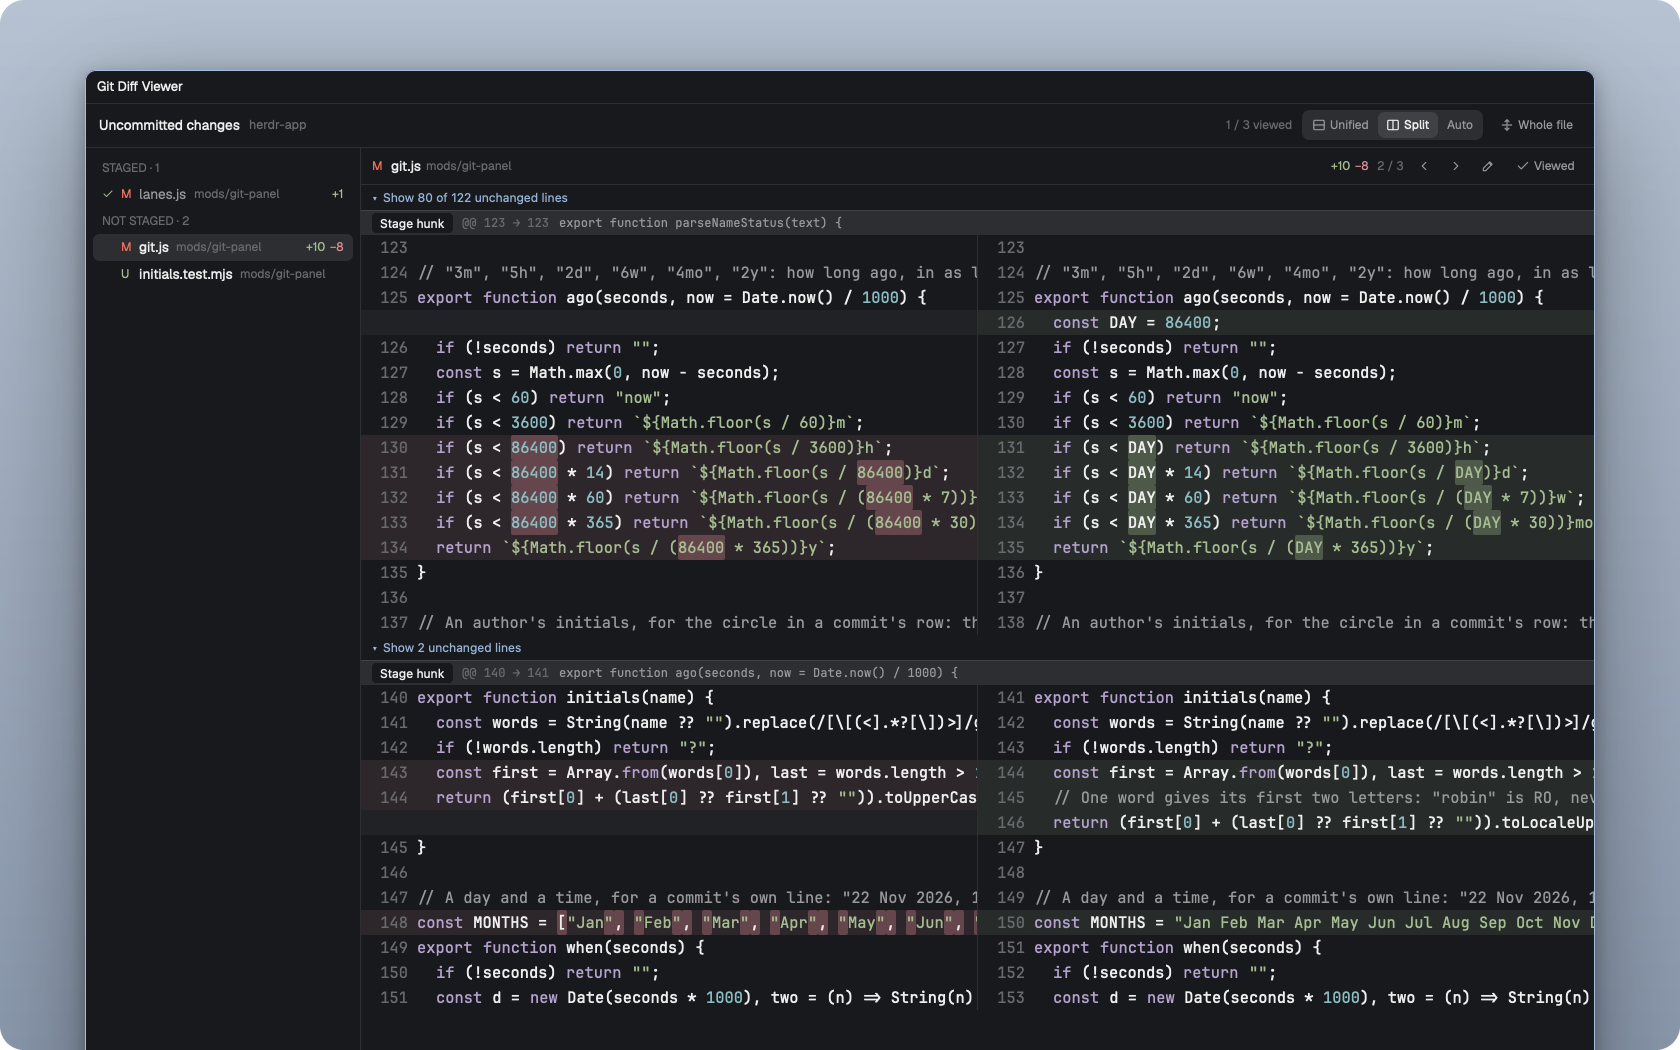
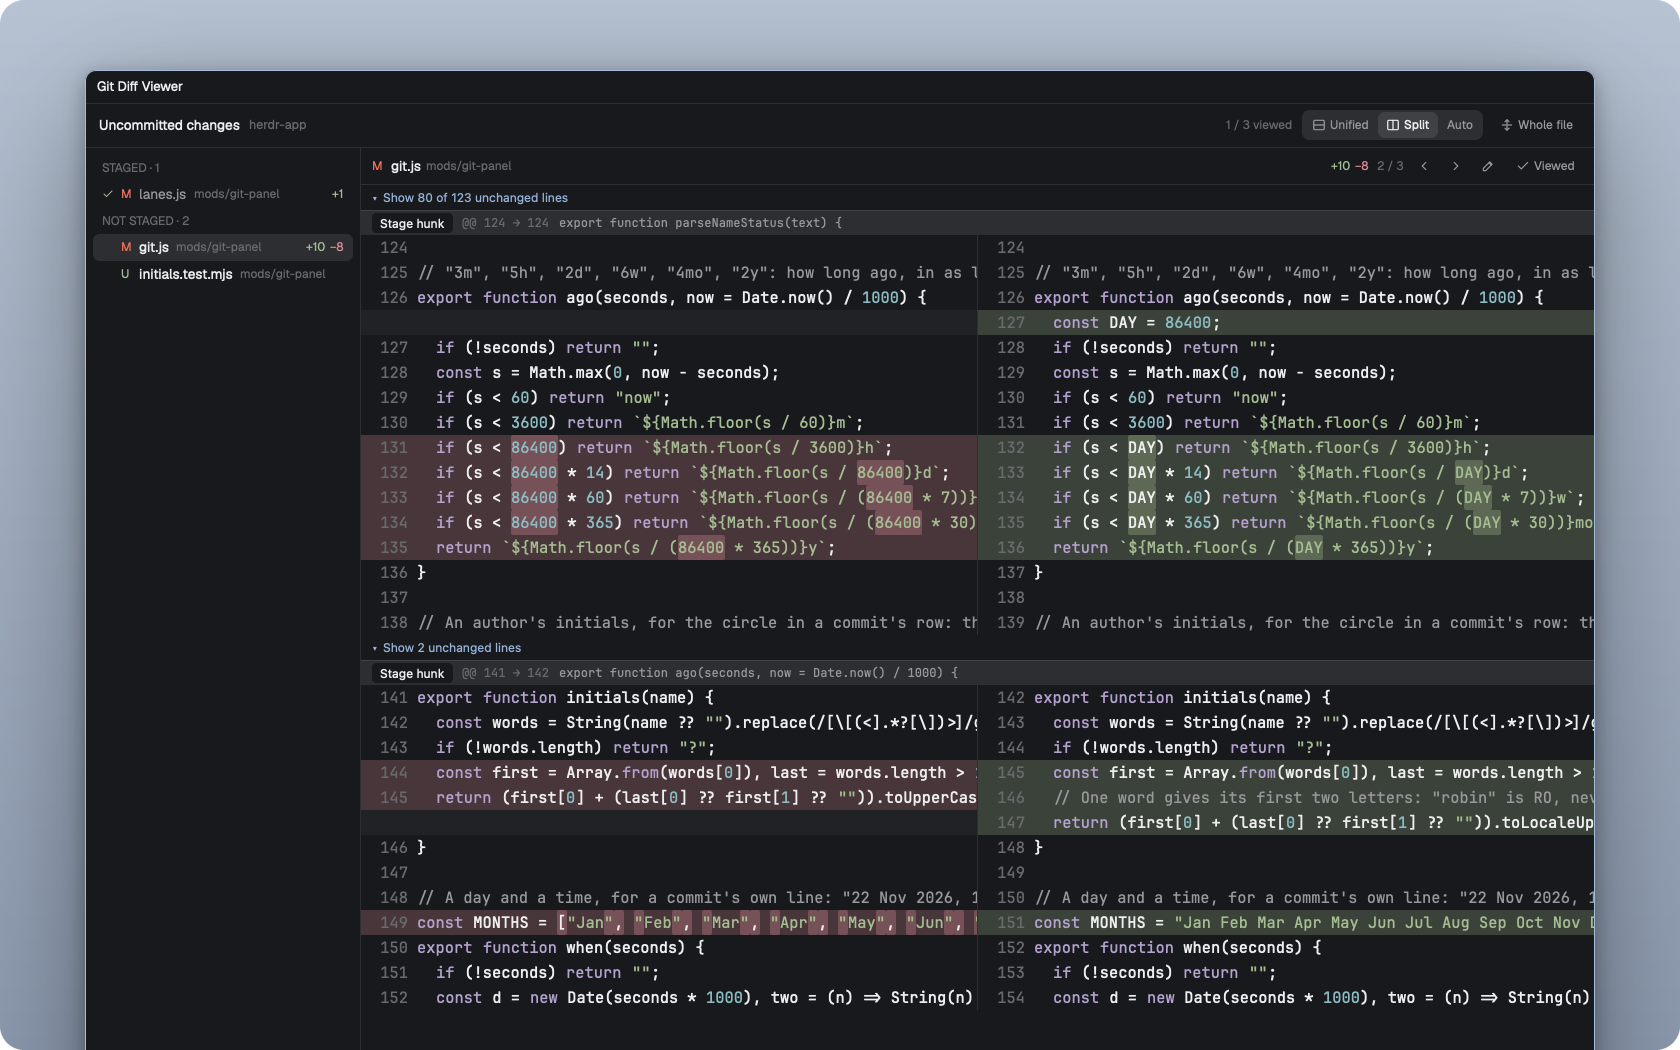
fix(git-diff): increase changed-line contrast

diff --git a/mods/git-diff/main.js b/mods/git-diff/main.js
@@ -776,7 +776,7 @@ export default class GitDiff extends View {
       .child(div().flex_1().min_w(0).truncate().text_color(t.muted).child(hard(row.note || "")));
   }
 
-  tint(kind, t) { return kind === "+" ? t.ansi2 + "1c" : kind === "-" ? t.ansi1 + "1c" : null; }
+  tint(kind, t) { return kind === "+" ? t.ansi2 + "40" : kind === "-" ? t.ansi1 + "40" : null; }
 
   number(n, t) {
     return div().w(NUMBER).flex_none().pr(8).text_right().text_color(t.dim).child(n === undefined || n === null ? "" : String(n));

diff --git a/packages/git-diff/mods/git-diff/main.js b/packages/git-diff/mods/git-diff/main.js
@@ -776,7 +776,7 @@ export default class GitDiff extends View {
       .child(div().flex_1().min_w(0).truncate().text_color(t.muted).child(hard(row.note || "")));
   }
 
-  tint(kind, t) { return kind === "+" ? t.ansi2 + "1c" : kind === "-" ? t.ansi1 + "1c" : null; }
+  tint(kind, t) { return kind === "+" ? t.ansi2 + "40" : kind === "-" ? t.ansi1 + "40" : null; }
 
   number(n, t) {
     return div().w(NUMBER).flex_none().pr(8).text_right().text_color(t.dim).child(n === undefined || n === null ? "" : String(n));

diff --git a/docs/git-diff.md b/docs/git-diff.md
@@ -7,7 +7,7 @@ A pane beside the terminals for reading a change, opened by clicking a file in t
 *An uncommitted change side by side, with the changed words marked and one file ticked as viewed. The names in the pictures are made up.*
 
 - **Unified and Split.** Use the header or press `S` to switch. Auto uses Split when both columns fit and Unified for new or deleted files. Unified shows both line numbers and scrolls horizontally.
-- **Code and word highlights.** Syntax colors identify keywords, strings, comments and numbers in common code formats. The exact words changed still get their own background.
+- **Code and word highlights.** Added lines have a green background and removed lines have a red one. The exact words changed get a stronger tint. Syntax colors identify keywords, strings, comments and numbers in common code formats.
 - **Hunks and context.** Each hunk shows its starting line numbers and function name when Git provides one. Click a gap to show its unchanged lines in groups of up to 80. Click **Hide** to collapse that gap. Press `W` or click **Whole file** to see the whole diff with context.
 - **Files.** The list shows additions and deletions per file and groups uncommitted changes into staged and unstaged. Click the filename in a narrow pane or press `F` to search the changed files. `J` and `K`, the arrows, and the mouse's forward and back buttons move between files.
 - **Stage or unstage a hunk.** In the uncommitted changes view, click **Stage hunk** or **Unstage hunk** in its header. Git updates the index and keeps your working file as it is. Return to the changes view to stage individual hunks after looking at the whole file. Use the Git panel to stage an untracked or binary file.

diff --git a/docs/agents/git-diff.md b/docs/agents/git-diff.md
@@ -29,6 +29,7 @@ The diff pane, beside the terminals. It is not a clone. One a tab (props `{ tab 
 - `tick()` reads nothing while Herdr is not the active app (`away`); the first active tick marks the lists stale. It starts no reading sooner than four times as long as the last one took (`cost`, measured from `listedAt` in `lists()`). Neither applies to `take()`: a request from the Git panel, or the restore at start, reads at once.
 - A tick is kept with a number made from the added and removed lines only (`diff.changes()`), not from the whole diff: that one changes with the lines shown around a change, and the whole-file view would take every tick away.
 - Word and syntax spans are computed before drawing. `WORDS` bounds word comparisons and `COLOR_CHARS` bounds syntax scans. A long line, unknown file type or exhausted budget falls back to the available highlights. Syntax scanning uses the displayed line and carries no state across omitted lines.
+- Unified and Split use the same theme-derived green and red line backgrounds at 25% opacity. Changed words get a second tint over the line background.
 - Unified scrolls horizontally. Auto chooses Split when both columns fit and the file exists on both sides. An explicit mode stays selected until it is changed or Auto is selected again.
 - A space in the text is drawn as a no-break space (`hard()`): a line is drawn in pieces, and a piece would lose the spaces at its ends.
 - `on_size_change` reports the window's pixels: `width()` divides by the zoom before comparing with the pane's own lengths.
